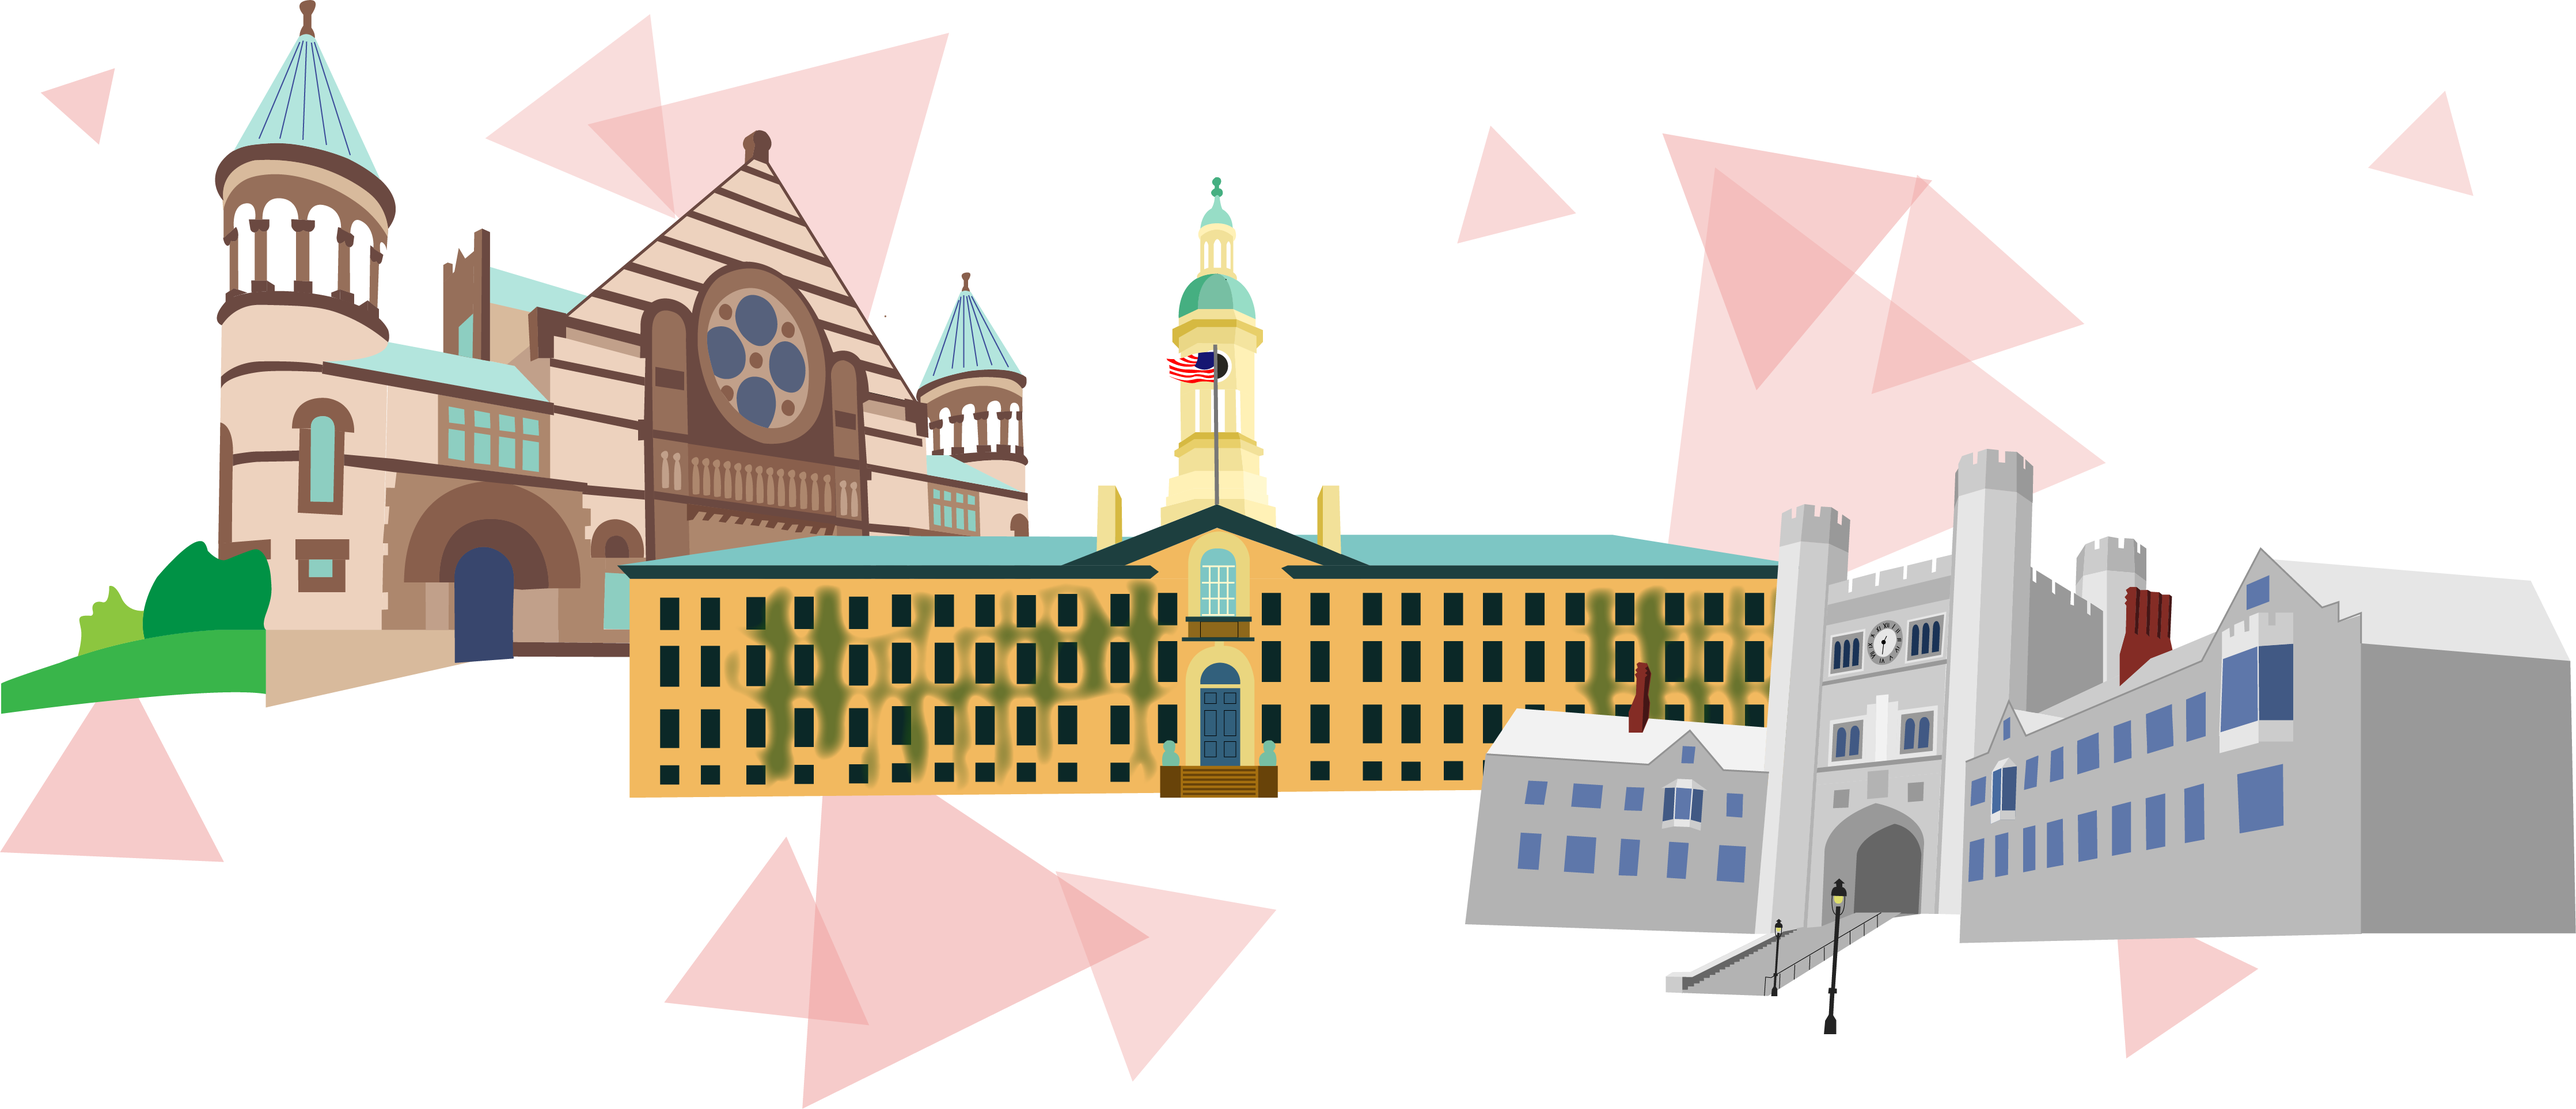
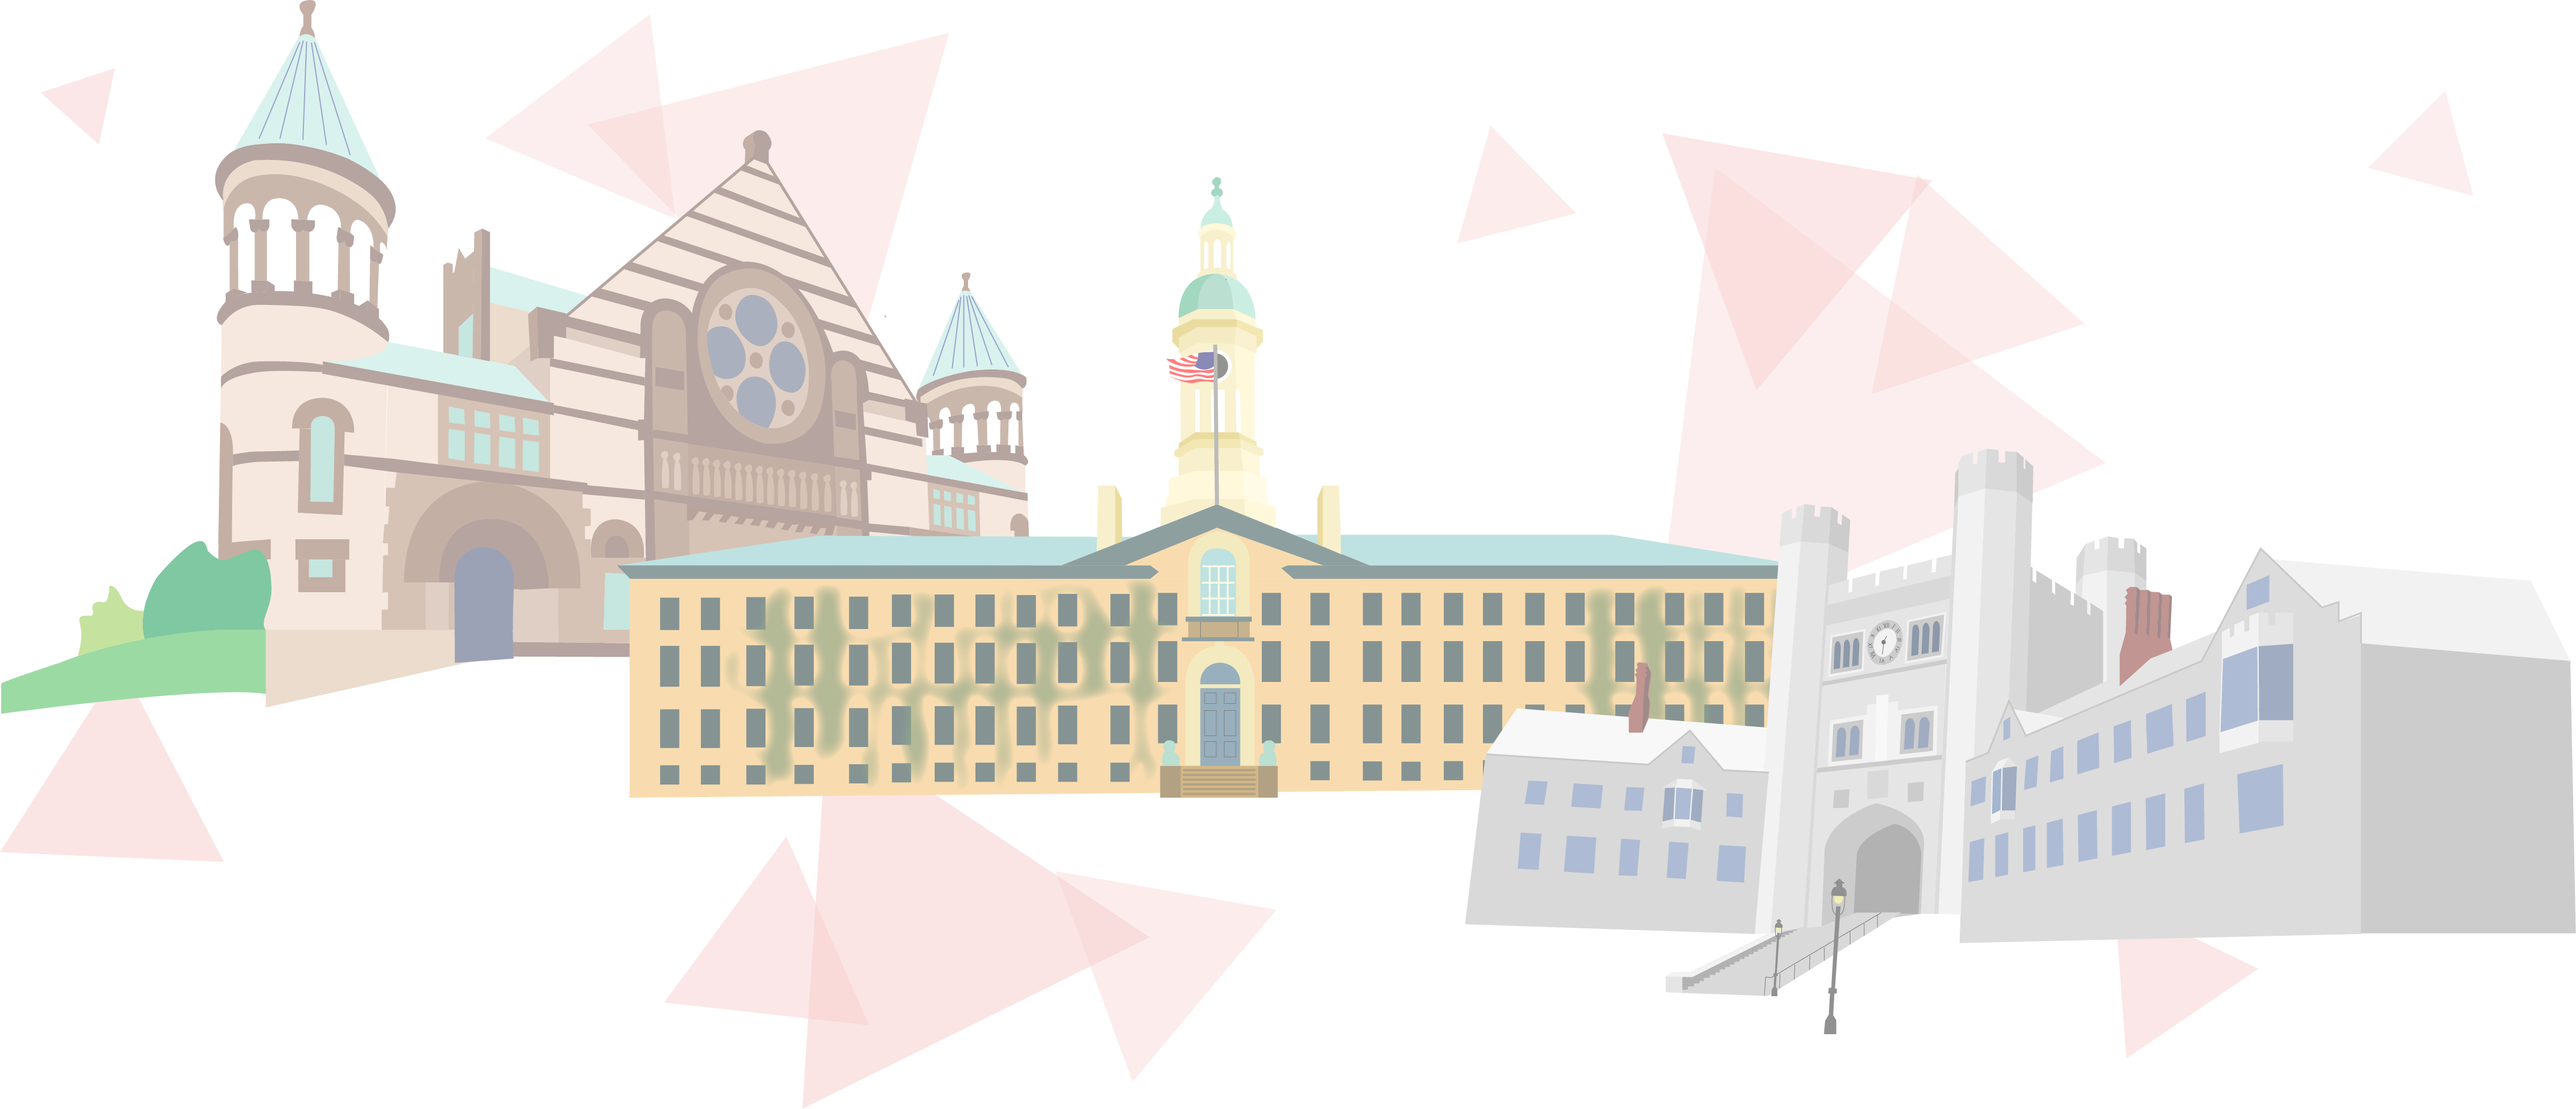
bg image

diff --git a/static/welcome.css b/static/welcome.css
@@ -23,8 +23,6 @@ body {
      background-attachment: fixed;
      background-size: 70%;
      min-width: 
-     z-index: -2;
-opacity: 0.4;
 }
 
 /*.buttons {
